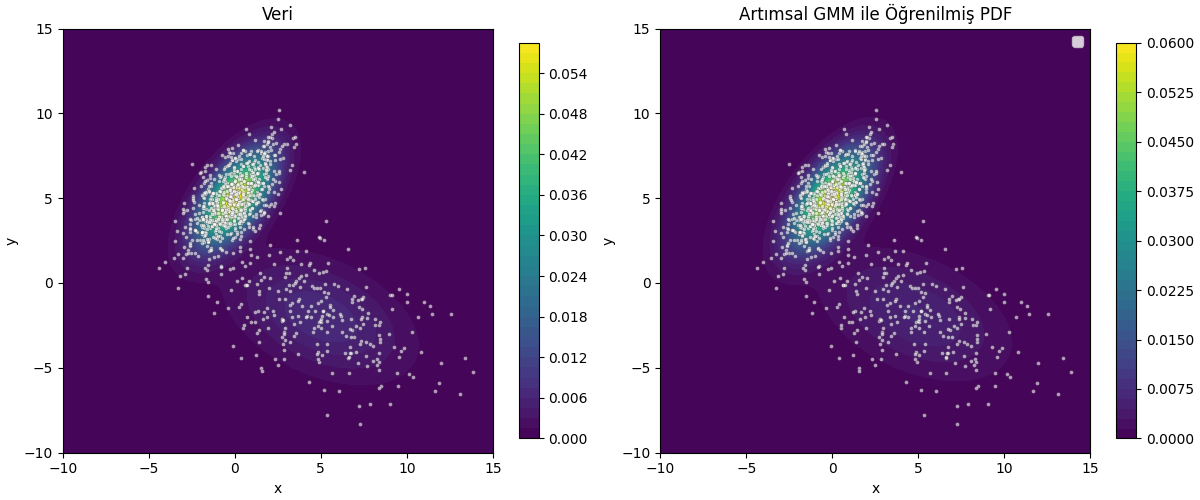
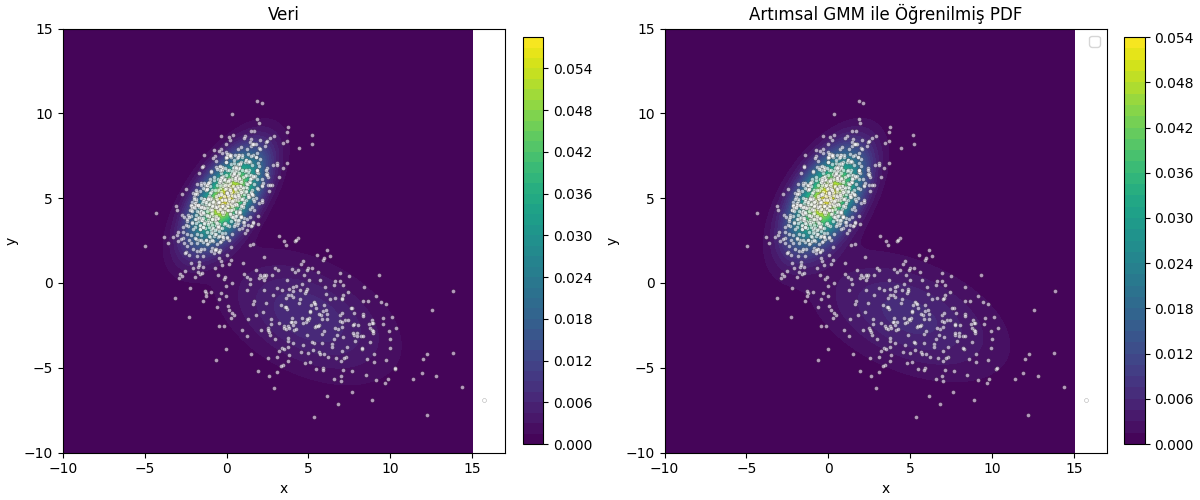
-

diff --git a/stat/stat_112_gmminc/artimsal__incremental__gmm.html b/stat/stat_112_gmminc/artimsal__incremental__gmm.html
@@ -274,13 +274,13 @@ p^{(m)}(C_g | \mathbf{x}_{m+1}) }{ \pi_g^{(m)} } \left( \mathbf{x}_{m+1}
 elde etmiş oluyoruz.</p>
 <h3 id="kovaryans-sigma_g-güncellemesi">Kovaryans <span
 class="math inline">\(\Sigma_g\)</span> Güncellemesi</h3>
-<p>Bilesen <span class="math inline">\(g\)</span> icin kovaryans</p>
+<p>Bileşen <span class="math inline">\(g\)</span> için kovaryans</p>
 <p><span class="math display">\[
 \Sigma_g^{(m)} = \frac{1}{m \pi_g^{(m)}} \sum_{i=1}^{m} p^{(m)}(C_g |
 \mathbf{x}_i) (\mathbf{x}_i - \mu_g^{(m)}) (\mathbf{x}_i -
 \mu_g^{(m)})^T
 \]</span></p>
-<p>Su tanimi one surelim,</p>
+<p>Şu tanımı öne sürelim,</p>
 <p><span class="math display">\[
 T_g^{(m)} = \sum_{i=1}^{m} p^{(m)}(C_g | \mathbf{x}_i) (\mathbf{x}_i -
 \mu_g^{(m)}) (\mathbf{x}_i - \mu_g^{(m)})^T = m \pi_g^{(m)}
@@ -421,43 +421,43 @@ class="sourceCode python"><code class="sourceCode python"><span id="cb2-1"><a hr
 <span id="cb2-24"><a href="#cb2-24" aria-hidden="true" tabindex="-1"></a>covs_tmp <span class="op">=</span> np.array([np.eye(d) <span class="cf">for</span> _ <span class="kw">in</span> <span class="bu">range</span>(n_components)])</span>
 <span id="cb2-25"><a href="#cb2-25" aria-hidden="true" tabindex="-1"></a></span>
 <span id="cb2-26"><a href="#cb2-26" aria-hidden="true" tabindex="-1"></a>m_total <span class="op">=</span> <span class="dv">1</span></span>
-<span id="cb2-27"><a href="#cb2-27" aria-hidden="true" tabindex="-1"></a>N_g <span class="op">=</span> weights <span class="op">*</span> m_total</span>
+<span id="cb2-27"><a href="#cb2-27" aria-hidden="true" tabindex="-1"></a>cumulative_r <span class="op">=</span> weights <span class="op">*</span> m_total</span>
 <span id="cb2-28"><a href="#cb2-28" aria-hidden="true" tabindex="-1"></a></span>
 <span id="cb2-29"><a href="#cb2-29" aria-hidden="true" tabindex="-1"></a><span class="cf">for</span> idx <span class="kw">in</span> <span class="bu">range</span>(<span class="bu">len</span>(data)):</span>
 <span id="cb2-30"><a href="#cb2-30" aria-hidden="true" tabindex="-1"></a>    x <span class="op">=</span> data[idx]</span>
 <span id="cb2-31"><a href="#cb2-31" aria-hidden="true" tabindex="-1"></a>    r <span class="op">=</span> responsibilities(x, weights_tmp, means_tmp, covs_tmp)</span>
 <span id="cb2-32"><a href="#cb2-32" aria-hidden="true" tabindex="-1"></a>    m_total <span class="op">+=</span> <span class="fl">1.0</span></span>
 <span id="cb2-33"><a href="#cb2-33" aria-hidden="true" tabindex="-1"></a>    <span class="cf">for</span> k <span class="kw">in</span> <span class="bu">range</span>(n_components):</span>
-<span id="cb2-34"><a href="#cb2-34" aria-hidden="true" tabindex="-1"></a>        N_old <span class="op">=</span> N_g[k]</span>
-<span id="cb2-35"><a href="#cb2-35" aria-hidden="true" tabindex="-1"></a>        N_new <span class="op">=</span> N_old <span class="op">+</span> r[k]</span>
-<span id="cb2-36"><a href="#cb2-36" aria-hidden="true" tabindex="-1"></a>        N_g[k] <span class="op">=</span> N_new</span>
-<span id="cb2-37"><a href="#cb2-37" aria-hidden="true" tabindex="-1"></a>    </span>
-<span id="cb2-38"><a href="#cb2-38" aria-hidden="true" tabindex="-1"></a>        <span class="co"># karisim agirliklarini guncelle</span></span>
-<span id="cb2-39"><a href="#cb2-39" aria-hidden="true" tabindex="-1"></a>        weights_tmp[k] <span class="op">=</span> N_new <span class="op">/</span> m_total</span>
-<span id="cb2-40"><a href="#cb2-40" aria-hidden="true" tabindex="-1"></a>    </span>
-<span id="cb2-41"><a href="#cb2-41" aria-hidden="true" tabindex="-1"></a>        <span class="co"># ortalama guncelle</span></span>
-<span id="cb2-42"><a href="#cb2-42" aria-hidden="true" tabindex="-1"></a>        mu_old <span class="op">=</span> means_tmp[k].copy()</span>
-<span id="cb2-43"><a href="#cb2-43" aria-hidden="true" tabindex="-1"></a>        means_tmp[k] <span class="op">=</span> mu_old <span class="op">+</span> (r[k] <span class="op">/</span> N_new) <span class="op">*</span> (x <span class="op">-</span> mu_old)</span>
-<span id="cb2-44"><a href="#cb2-44" aria-hidden="true" tabindex="-1"></a>    </span>
-<span id="cb2-45"><a href="#cb2-45" aria-hidden="true" tabindex="-1"></a>        <span class="co"># kovaryans guncelle</span></span>
+<span id="cb2-34"><a href="#cb2-34" aria-hidden="true" tabindex="-1"></a>        <span class="co"># Update cumulative responsibilities</span></span>
+<span id="cb2-35"><a href="#cb2-35" aria-hidden="true" tabindex="-1"></a>        cumulative_r[k] <span class="op">+=</span> r[k]</span>
+<span id="cb2-36"><a href="#cb2-36" aria-hidden="true" tabindex="-1"></a></span>
+<span id="cb2-37"><a href="#cb2-37" aria-hidden="true" tabindex="-1"></a>        <span class="co"># Update mixture weights</span></span>
+<span id="cb2-38"><a href="#cb2-38" aria-hidden="true" tabindex="-1"></a>        weights_tmp[k] <span class="op">=</span> cumulative_r[k] <span class="op">/</span> m_total</span>
+<span id="cb2-39"><a href="#cb2-39" aria-hidden="true" tabindex="-1"></a></span>
+<span id="cb2-40"><a href="#cb2-40" aria-hidden="true" tabindex="-1"></a>        <span class="co"># Mean update using Zheng&#39;s form</span></span>
+<span id="cb2-41"><a href="#cb2-41" aria-hidden="true" tabindex="-1"></a>        mu_old <span class="op">=</span> means_tmp[k].copy()</span>
+<span id="cb2-42"><a href="#cb2-42" aria-hidden="true" tabindex="-1"></a>        coef <span class="op">=</span> (<span class="fl">1.0</span> <span class="op">/</span> m_total) <span class="op">*</span> (r[k] <span class="op">/</span> (weights_tmp[k] <span class="op">+</span> <span class="fl">1e-12</span>))</span>
+<span id="cb2-43"><a href="#cb2-43" aria-hidden="true" tabindex="-1"></a>        means_tmp[k] <span class="op">=</span> mu_old <span class="op">+</span> coef <span class="op">*</span> (x <span class="op">-</span> mu_old)</span>
+<span id="cb2-44"><a href="#cb2-44" aria-hidden="true" tabindex="-1"></a></span>
+<span id="cb2-45"><a href="#cb2-45" aria-hidden="true" tabindex="-1"></a>        <span class="co"># Covariance update (same structure)</span></span>
 <span id="cb2-46"><a href="#cb2-46" aria-hidden="true" tabindex="-1"></a>        diff_var <span class="op">=</span> (x <span class="op">-</span> mu_old).reshape(<span class="op">-</span><span class="dv">1</span>, <span class="dv">1</span>)</span>
-<span id="cb2-47"><a href="#cb2-47" aria-hidden="true" tabindex="-1"></a>        covs_tmp[k] <span class="op">=</span> covs_tmp[k] <span class="op">+</span> (r[k]<span class="op">/</span> N_new) <span class="op">*</span> (diff_var <span class="op">@</span> diff_var.T <span class="op">-</span> covs_tmp[k])</span>
+<span id="cb2-47"><a href="#cb2-47" aria-hidden="true" tabindex="-1"></a>        covs_tmp[k] <span class="op">=</span> covs_tmp[k] <span class="op">+</span> coef <span class="op">*</span> (diff_var <span class="op">@</span> diff_var.T <span class="op">-</span> covs_tmp[k])</span>
 <span id="cb2-48"><a href="#cb2-48" aria-hidden="true" tabindex="-1"></a></span>
 <span id="cb2-49"><a href="#cb2-49" aria-hidden="true" tabindex="-1"></a>ll <span class="op">=</span> log_likelihood(data, weights_tmp, means_tmp, covs_tmp)</span>
 <span id="cb2-50"><a href="#cb2-50" aria-hidden="true" tabindex="-1"></a><span class="bu">print</span> (ll)</span></code></pre></div>
-<pre class="text"><code>-4360.846471826622</code></pre>
+<pre class="text"><code>-4457.0162888977675</code></pre>
 <div class="sourceCode" id="cb4"><pre
 class="sourceCode python"><code class="sourceCode python"><span id="cb4-1"><a href="#cb4-1" aria-hidden="true" tabindex="-1"></a><span class="bu">print</span> (weights_tmp)        </span>
 <span id="cb4-2"><a href="#cb4-2" aria-hidden="true" tabindex="-1"></a><span class="bu">print</span> (means_tmp)</span>
 <span id="cb4-3"><a href="#cb4-3" aria-hidden="true" tabindex="-1"></a><span class="bu">print</span> (covs_tmp)</span></code></pre></div>
-<pre class="text"><code>[0.27031847 0.72968153]
-[[ 4.82938522 -1.85086552]
- [-0.096788    4.98560362]]
-[[[10.98910245 -3.28339688]
-  [-3.28339688  5.42591678]]
+<pre class="text"><code>[0.29698269 0.70301731]
+[[ 4.95850944 -1.96333327]
+ [-0.09937333  4.98941925]]
+[[[12.4988802  -3.52676769]
+  [-3.52676769  4.98789128]]
 
- [[ 2.0410508   1.55670221]
-  [ 1.55670221  3.11409028]]]</code></pre>
+ [[ 2.01466638  1.36292997]
+  [ 1.36292997  3.1163339 ]]]</code></pre>
 <div class="sourceCode" id="cb6"><pre
 class="sourceCode python"><code class="sourceCode python"><span id="cb6-1"><a href="#cb6-1" aria-hidden="true" tabindex="-1"></a>xs <span class="op">=</span> np.linspace(<span class="op">-</span><span class="dv">10</span>, <span class="dv">15</span>, <span class="dv">120</span>)</span>
 <span id="cb6-2"><a href="#cb6-2" aria-hidden="true" tabindex="-1"></a>ys <span class="op">=</span> np.linspace(<span class="op">-</span><span class="dv">10</span>, <span class="dv">15</span>, <span class="dv">120</span>)</span>

diff --git a/stat/stat_112_gmminc/stat_112_gmminc.html b/stat/stat_112_gmminc/stat_112_gmminc.html
@@ -274,13 +274,13 @@ p^{(m)}(C_g | \mathbf{x}_{m+1}) }{ \pi_g^{(m)} } \left( \mathbf{x}_{m+1}
 elde etmiş oluyoruz.</p>
 <h3 id="kovaryans-sigma_g-güncellemesi">Kovaryans <span
 class="math inline">\(\Sigma_g\)</span> Güncellemesi</h3>
-<p>Bilesen <span class="math inline">\(g\)</span> icin kovaryans</p>
+<p>Bileşen <span class="math inline">\(g\)</span> için kovaryans</p>
 <p><span class="math display">\[
 \Sigma_g^{(m)} = \frac{1}{m \pi_g^{(m)}} \sum_{i=1}^{m} p^{(m)}(C_g |
 \mathbf{x}_i) (\mathbf{x}_i - \mu_g^{(m)}) (\mathbf{x}_i -
 \mu_g^{(m)})^T
 \]</span></p>
-<p>Su tanimi one surelim,</p>
+<p>Şu tanımı öne sürelim,</p>
 <p><span class="math display">\[
 T_g^{(m)} = \sum_{i=1}^{m} p^{(m)}(C_g | \mathbf{x}_i) (\mathbf{x}_i -
 \mu_g^{(m)}) (\mathbf{x}_i - \mu_g^{(m)})^T = m \pi_g^{(m)}
@@ -421,43 +421,43 @@ class="sourceCode python"><code class="sourceCode python"><span id="cb2-1"><a hr
 <span id="cb2-24"><a href="#cb2-24" aria-hidden="true" tabindex="-1"></a>covs_tmp <span class="op">=</span> np.array([np.eye(d) <span class="cf">for</span> _ <span class="kw">in</span> <span class="bu">range</span>(n_components)])</span>
 <span id="cb2-25"><a href="#cb2-25" aria-hidden="true" tabindex="-1"></a></span>
 <span id="cb2-26"><a href="#cb2-26" aria-hidden="true" tabindex="-1"></a>m_total <span class="op">=</span> <span class="dv">1</span></span>
-<span id="cb2-27"><a href="#cb2-27" aria-hidden="true" tabindex="-1"></a>N_g <span class="op">=</span> weights <span class="op">*</span> m_total</span>
+<span id="cb2-27"><a href="#cb2-27" aria-hidden="true" tabindex="-1"></a>cumulative_r <span class="op">=</span> weights <span class="op">*</span> m_total</span>
 <span id="cb2-28"><a href="#cb2-28" aria-hidden="true" tabindex="-1"></a></span>
 <span id="cb2-29"><a href="#cb2-29" aria-hidden="true" tabindex="-1"></a><span class="cf">for</span> idx <span class="kw">in</span> <span class="bu">range</span>(<span class="bu">len</span>(data)):</span>
 <span id="cb2-30"><a href="#cb2-30" aria-hidden="true" tabindex="-1"></a>    x <span class="op">=</span> data[idx]</span>
 <span id="cb2-31"><a href="#cb2-31" aria-hidden="true" tabindex="-1"></a>    r <span class="op">=</span> responsibilities(x, weights_tmp, means_tmp, covs_tmp)</span>
 <span id="cb2-32"><a href="#cb2-32" aria-hidden="true" tabindex="-1"></a>    m_total <span class="op">+=</span> <span class="fl">1.0</span></span>
 <span id="cb2-33"><a href="#cb2-33" aria-hidden="true" tabindex="-1"></a>    <span class="cf">for</span> k <span class="kw">in</span> <span class="bu">range</span>(n_components):</span>
-<span id="cb2-34"><a href="#cb2-34" aria-hidden="true" tabindex="-1"></a>        N_old <span class="op">=</span> N_g[k]</span>
-<span id="cb2-35"><a href="#cb2-35" aria-hidden="true" tabindex="-1"></a>        N_new <span class="op">=</span> N_old <span class="op">+</span> r[k]</span>
-<span id="cb2-36"><a href="#cb2-36" aria-hidden="true" tabindex="-1"></a>        N_g[k] <span class="op">=</span> N_new</span>
-<span id="cb2-37"><a href="#cb2-37" aria-hidden="true" tabindex="-1"></a>    </span>
-<span id="cb2-38"><a href="#cb2-38" aria-hidden="true" tabindex="-1"></a>        <span class="co"># karisim agirliklarini guncelle</span></span>
-<span id="cb2-39"><a href="#cb2-39" aria-hidden="true" tabindex="-1"></a>        weights_tmp[k] <span class="op">=</span> N_new <span class="op">/</span> m_total</span>
-<span id="cb2-40"><a href="#cb2-40" aria-hidden="true" tabindex="-1"></a>    </span>
-<span id="cb2-41"><a href="#cb2-41" aria-hidden="true" tabindex="-1"></a>        <span class="co"># ortalama guncelle</span></span>
-<span id="cb2-42"><a href="#cb2-42" aria-hidden="true" tabindex="-1"></a>        mu_old <span class="op">=</span> means_tmp[k].copy()</span>
-<span id="cb2-43"><a href="#cb2-43" aria-hidden="true" tabindex="-1"></a>        means_tmp[k] <span class="op">=</span> mu_old <span class="op">+</span> (r[k] <span class="op">/</span> N_new) <span class="op">*</span> (x <span class="op">-</span> mu_old)</span>
-<span id="cb2-44"><a href="#cb2-44" aria-hidden="true" tabindex="-1"></a>    </span>
-<span id="cb2-45"><a href="#cb2-45" aria-hidden="true" tabindex="-1"></a>        <span class="co"># kovaryans guncelle</span></span>
+<span id="cb2-34"><a href="#cb2-34" aria-hidden="true" tabindex="-1"></a>        <span class="co"># Update cumulative responsibilities</span></span>
+<span id="cb2-35"><a href="#cb2-35" aria-hidden="true" tabindex="-1"></a>        cumulative_r[k] <span class="op">+=</span> r[k]</span>
+<span id="cb2-36"><a href="#cb2-36" aria-hidden="true" tabindex="-1"></a></span>
+<span id="cb2-37"><a href="#cb2-37" aria-hidden="true" tabindex="-1"></a>        <span class="co"># Update mixture weights</span></span>
+<span id="cb2-38"><a href="#cb2-38" aria-hidden="true" tabindex="-1"></a>        weights_tmp[k] <span class="op">=</span> cumulative_r[k] <span class="op">/</span> m_total</span>
+<span id="cb2-39"><a href="#cb2-39" aria-hidden="true" tabindex="-1"></a></span>
+<span id="cb2-40"><a href="#cb2-40" aria-hidden="true" tabindex="-1"></a>        <span class="co"># Mean update using Zheng&#39;s form</span></span>
+<span id="cb2-41"><a href="#cb2-41" aria-hidden="true" tabindex="-1"></a>        mu_old <span class="op">=</span> means_tmp[k].copy()</span>
+<span id="cb2-42"><a href="#cb2-42" aria-hidden="true" tabindex="-1"></a>        coef <span class="op">=</span> (<span class="fl">1.0</span> <span class="op">/</span> m_total) <span class="op">*</span> (r[k] <span class="op">/</span> (weights_tmp[k] <span class="op">+</span> <span class="fl">1e-12</span>))</span>
+<span id="cb2-43"><a href="#cb2-43" aria-hidden="true" tabindex="-1"></a>        means_tmp[k] <span class="op">=</span> mu_old <span class="op">+</span> coef <span class="op">*</span> (x <span class="op">-</span> mu_old)</span>
+<span id="cb2-44"><a href="#cb2-44" aria-hidden="true" tabindex="-1"></a></span>
+<span id="cb2-45"><a href="#cb2-45" aria-hidden="true" tabindex="-1"></a>        <span class="co"># Covariance update (same structure)</span></span>
 <span id="cb2-46"><a href="#cb2-46" aria-hidden="true" tabindex="-1"></a>        diff_var <span class="op">=</span> (x <span class="op">-</span> mu_old).reshape(<span class="op">-</span><span class="dv">1</span>, <span class="dv">1</span>)</span>
-<span id="cb2-47"><a href="#cb2-47" aria-hidden="true" tabindex="-1"></a>        covs_tmp[k] <span class="op">=</span> covs_tmp[k] <span class="op">+</span> (r[k]<span class="op">/</span> N_new) <span class="op">*</span> (diff_var <span class="op">@</span> diff_var.T <span class="op">-</span> covs_tmp[k])</span>
+<span id="cb2-47"><a href="#cb2-47" aria-hidden="true" tabindex="-1"></a>        covs_tmp[k] <span class="op">=</span> covs_tmp[k] <span class="op">+</span> coef <span class="op">*</span> (diff_var <span class="op">@</span> diff_var.T <span class="op">-</span> covs_tmp[k])</span>
 <span id="cb2-48"><a href="#cb2-48" aria-hidden="true" tabindex="-1"></a></span>
 <span id="cb2-49"><a href="#cb2-49" aria-hidden="true" tabindex="-1"></a>ll <span class="op">=</span> log_likelihood(data, weights_tmp, means_tmp, covs_tmp)</span>
 <span id="cb2-50"><a href="#cb2-50" aria-hidden="true" tabindex="-1"></a><span class="bu">print</span> (ll)</span></code></pre></div>
-<pre class="text"><code>-4360.846471826622</code></pre>
+<pre class="text"><code>-4457.0162888977675</code></pre>
 <div class="sourceCode" id="cb4"><pre
 class="sourceCode python"><code class="sourceCode python"><span id="cb4-1"><a href="#cb4-1" aria-hidden="true" tabindex="-1"></a><span class="bu">print</span> (weights_tmp)        </span>
 <span id="cb4-2"><a href="#cb4-2" aria-hidden="true" tabindex="-1"></a><span class="bu">print</span> (means_tmp)</span>
 <span id="cb4-3"><a href="#cb4-3" aria-hidden="true" tabindex="-1"></a><span class="bu">print</span> (covs_tmp)</span></code></pre></div>
-<pre class="text"><code>[0.27031847 0.72968153]
-[[ 4.82938522 -1.85086552]
- [-0.096788    4.98560362]]
-[[[10.98910245 -3.28339688]
-  [-3.28339688  5.42591678]]
+<pre class="text"><code>[0.29698269 0.70301731]
+[[ 4.95850944 -1.96333327]
+ [-0.09937333  4.98941925]]
+[[[12.4988802  -3.52676769]
+  [-3.52676769  4.98789128]]
 
- [[ 2.0410508   1.55670221]
-  [ 1.55670221  3.11409028]]]</code></pre>
+ [[ 2.01466638  1.36292997]
+  [ 1.36292997  3.1163339 ]]]</code></pre>
 <div class="sourceCode" id="cb6"><pre
 class="sourceCode python"><code class="sourceCode python"><span id="cb6-1"><a href="#cb6-1" aria-hidden="true" tabindex="-1"></a>xs <span class="op">=</span> np.linspace(<span class="op">-</span><span class="dv">10</span>, <span class="dv">15</span>, <span class="dv">120</span>)</span>
 <span id="cb6-2"><a href="#cb6-2" aria-hidden="true" tabindex="-1"></a>ys <span class="op">=</span> np.linspace(<span class="op">-</span><span class="dv">10</span>, <span class="dv">15</span>, <span class="dv">120</span>)</span>
